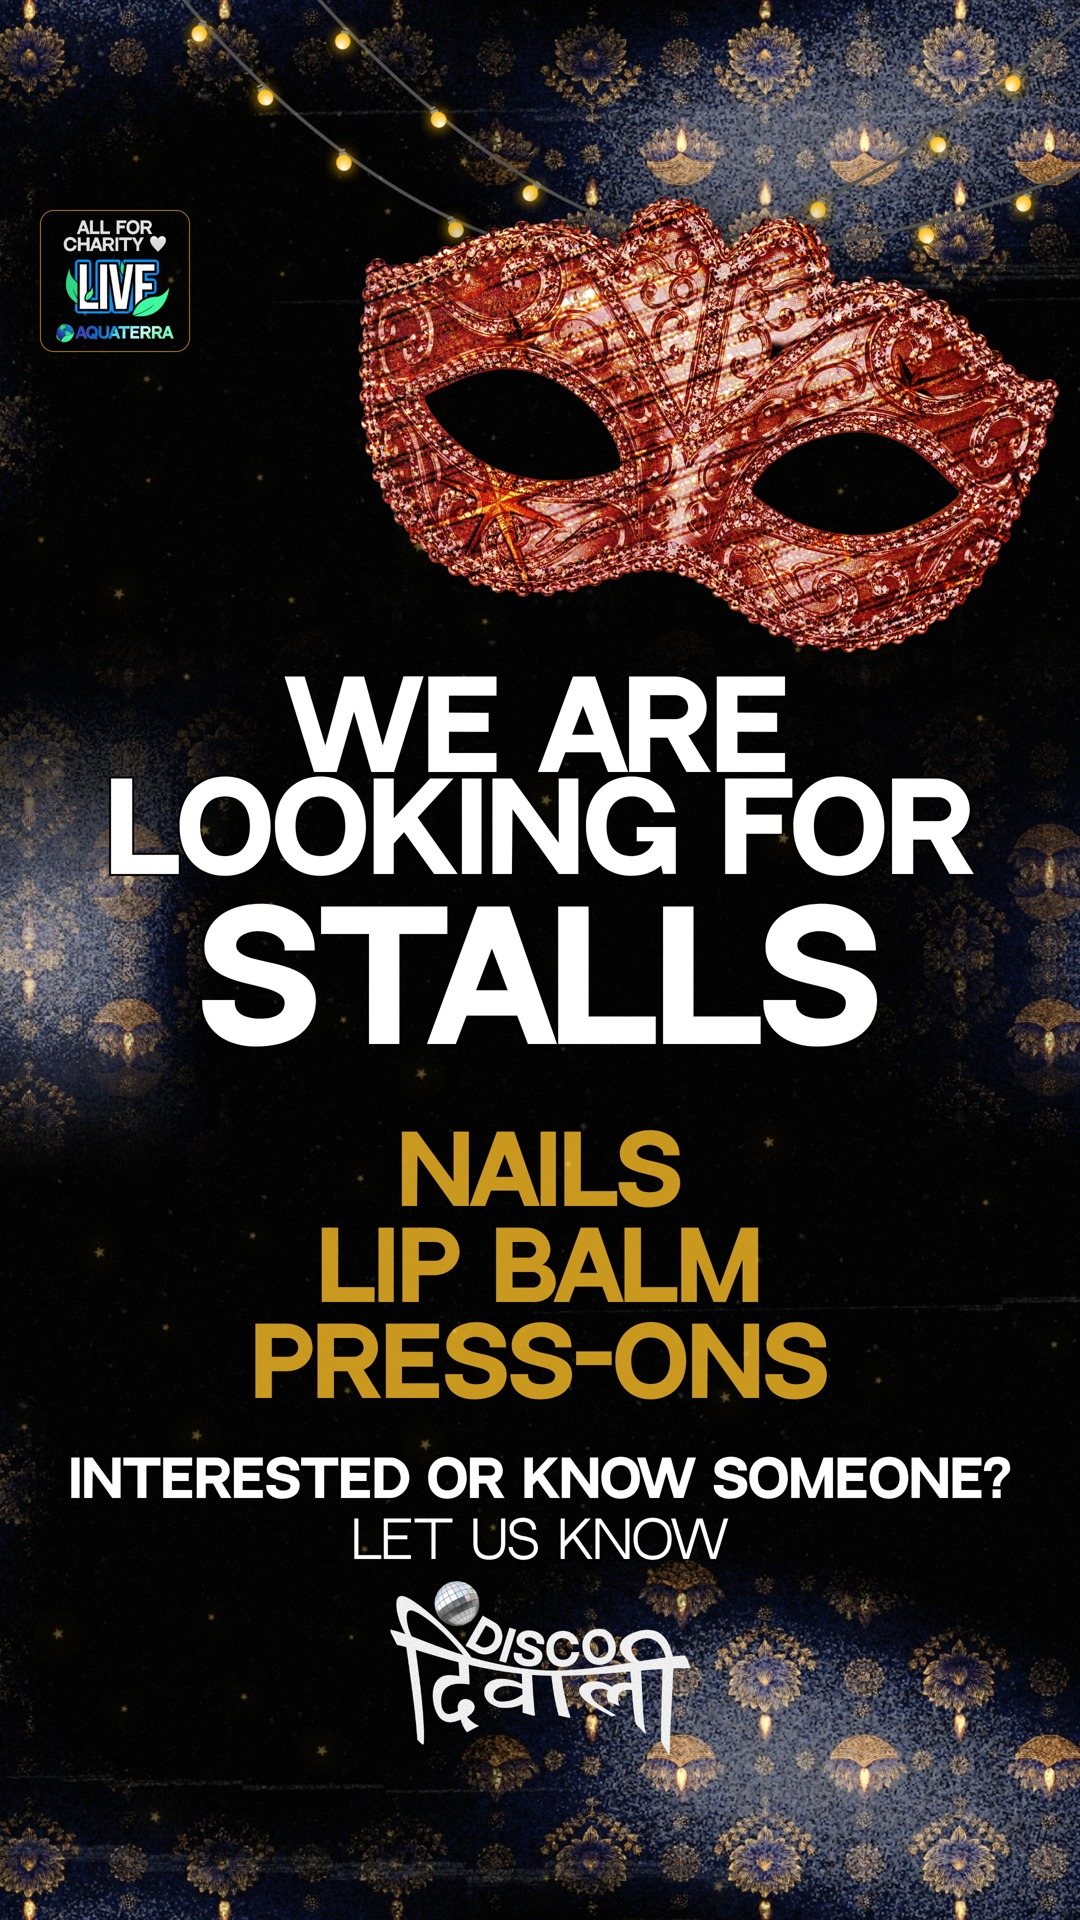
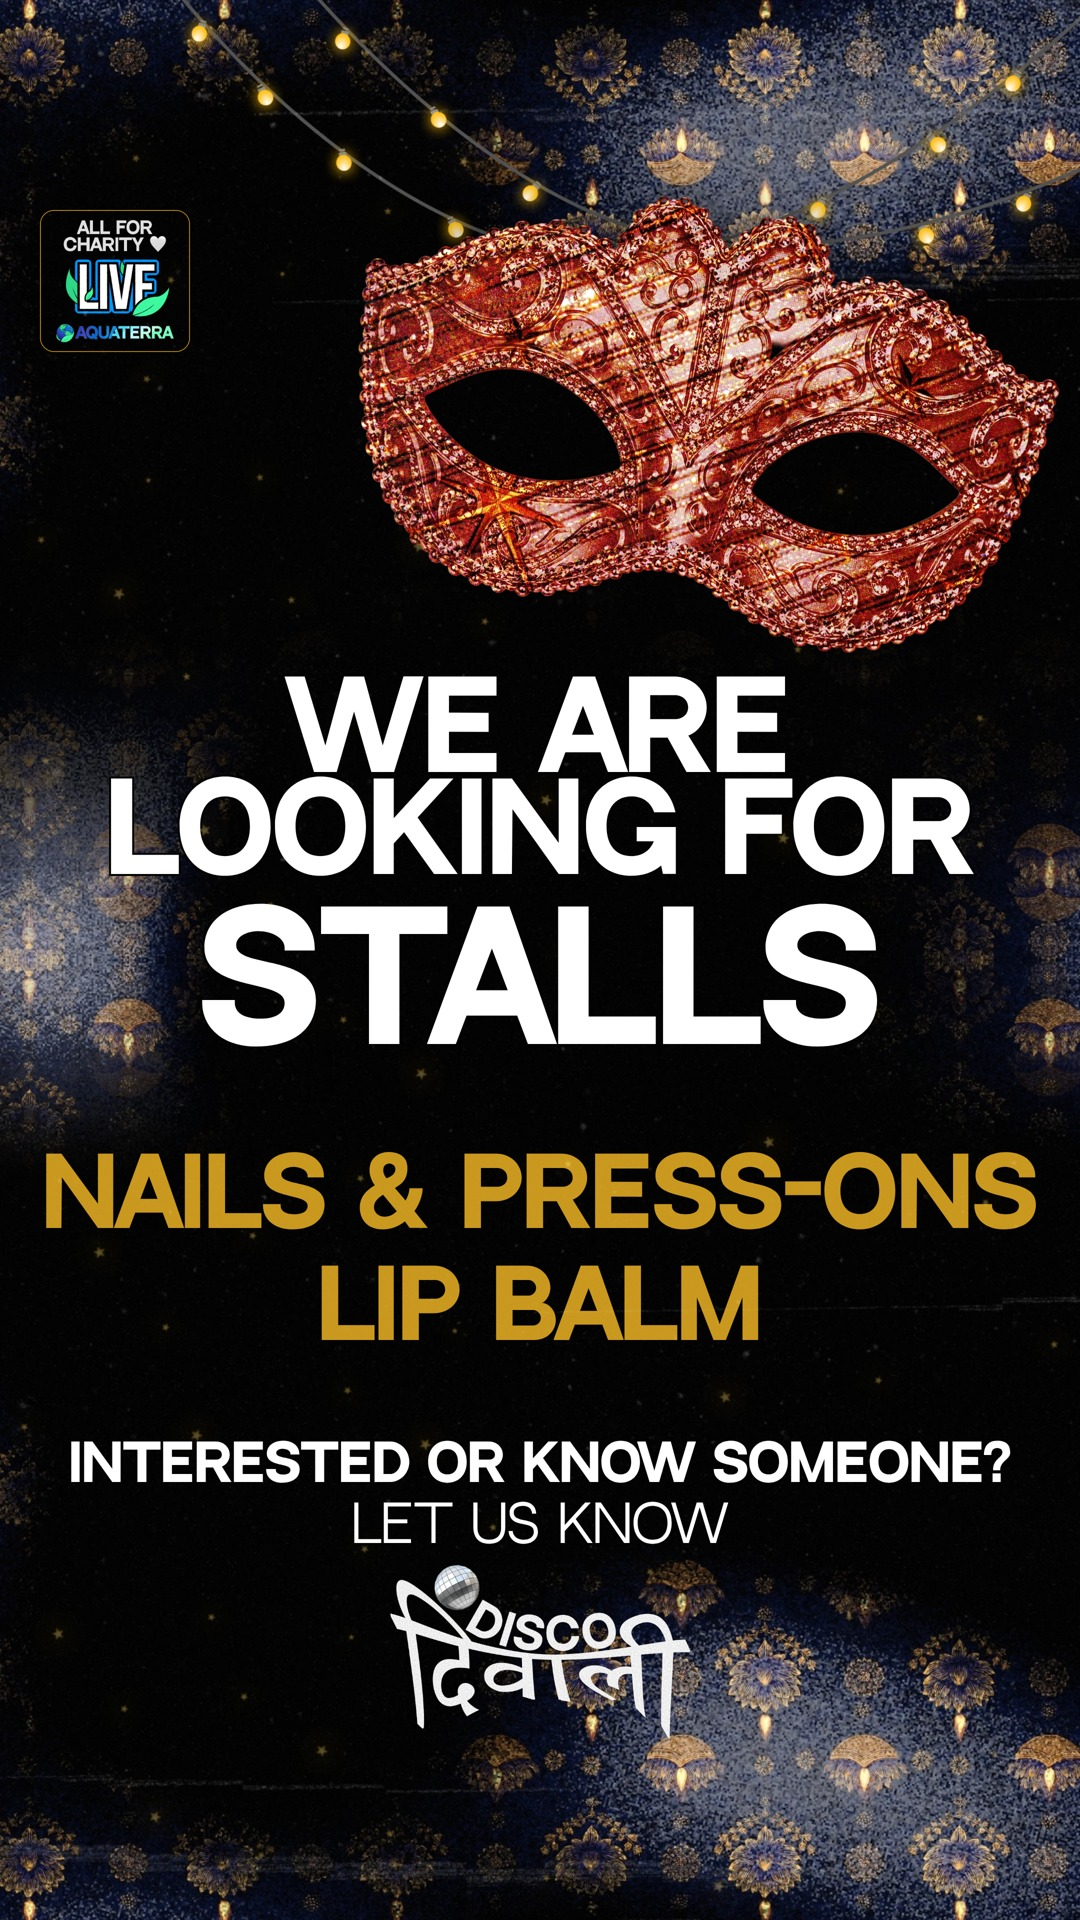
Stall call story: nails and press-ons are one stall
Claude-Session: https://claude.ai/code/session_011Tdiin6aNXQLggVhcwaFdk

Changed region(s): [[0.0306, 0.5625, 0.9778, 0.9062]]

diff --git a/scratchpad/dd_stall_call.py b/scratchpad/dd_stall_call.py
@@ -1,5 +1,5 @@
 """DISCO DIWALI story (diya ground, string lights, copper mask: user, 2026-10-24 "in disco diwali branding"): call for stalls (nails, lip balm, press-ons), 2026-10-24. Text-led: no circle photo. Copy is the user's own, lightly cut to fit:
-WE ARE LOOKING FOR STALLS / NAILS, LIP BALM, PRESS-ONS / INTERESTED OR KNOW SOMEONE? LET US KNOW. No contact method was supplied, so NO link pill and no handle.
+WE ARE LOOKING FOR STALLS / NAILS & PRESS-ONS, LIP BALM (nails and press-ons are one stall, user 2026-10-24) / INTERESTED OR KNOW SOMEONE? LET US KNOW. No contact method was supplied, so NO link pill and no handle.
 Run: PYTHONIOENCODING=utf-8 python scratchpad/dd_stall_call.py -> out/discodiwali/stall_call/story.png"""
 import asyncio, importlib.util, os, sys
 ROOT = os.path.dirname(os.path.dirname(os.path.abspath(__file__)))
@@ -20,12 +20,11 @@ def story():
         parts.append(f'<div data-tag="{tag}" style="position:absolute;left:0;width:{W}px;top:{top}px;text-align:center;font-family:var(--d);font-weight:{weight};font-size:{size}px;line-height:1;'
                      f'text-transform:uppercase;white-space:nowrap;{STROKE if stroke else f"color:{color};"}z-index:20">{txt}</div>'); els.append((tag, 40, top, 1000, h))
     line("h1", "We are", 672, 118, 700, 118); line("h2", "looking for", 774, 118, 700, 118); line("h3", "stalls", 900, 170, 700, 190)
-    line("k1", "Nails", 1128, 92, 700, 92, stroke=False, color=dd.GOLD)
-    line("k2", "Lip balm", 1224, 92, 700, 92, stroke=False, color=dd.GOLD)
-    line("k3", "Press-ons", 1320, 92, 700, 92, stroke=False, color=dd.GOLD)
-    line("ask1", "Interested or know someone?", 1456, 50, 700, 54, stroke=False)
-    line("ask2", "Let us know", 1518, 50, 400, 54, stroke=False)
-    vw = 300; t = vw / 1717; vh = round(991 * t); vx = (W - vw) // 2; vy = 1582
+    line("k1", "Nails &amp; press-ons", 1150, 92, 700, 92, stroke=False, color=dd.GOLD)
+    line("k2", "Lip balm", 1262, 92, 700, 92, stroke=False, color=dd.GOLD)
+    line("ask1", "Interested or know someone?", 1440, 50, 700, 54, stroke=False)
+    line("ask2", "Let us know", 1502, 50, 400, 54, stroke=False)
+    vw = 300; t = vw / 1717; vh = round(991 * t); vx = (W - vw) // 2; vy = 1566
     parts.append(f'<img data-tag="title" src="{dd.uri("title_lockup.png")}" style="position:absolute;left:{round(vx - 265 * t)}px;top:{round(vy - 320 * t)}px;width:{round(2000 * t)}px;z-index:9">'); els.append(("title", vx, vy, vw, vh))
     return "".join(parts), els, vy + vh
 async def main():
